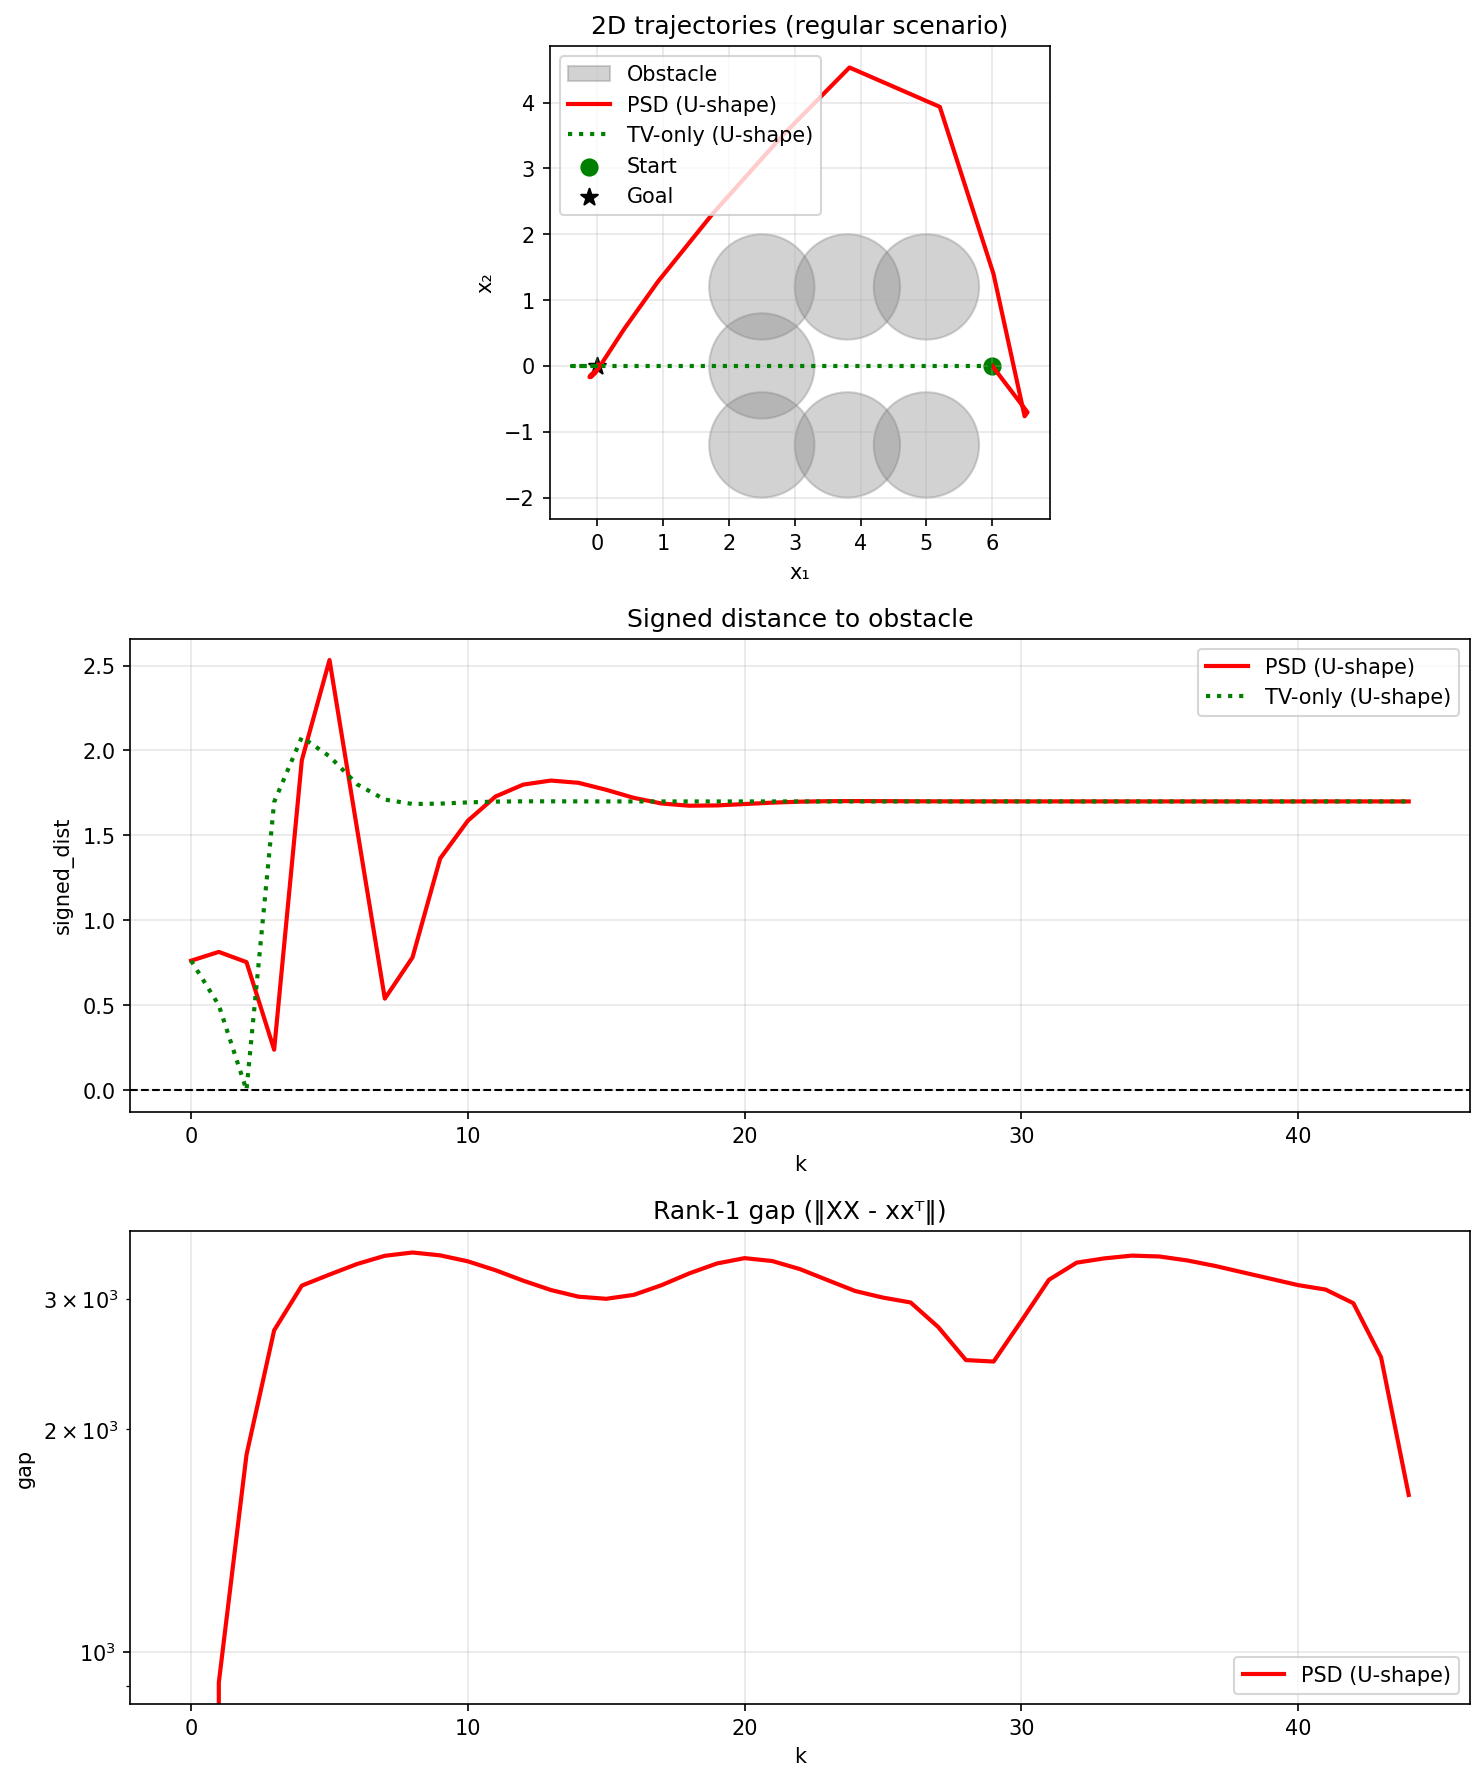
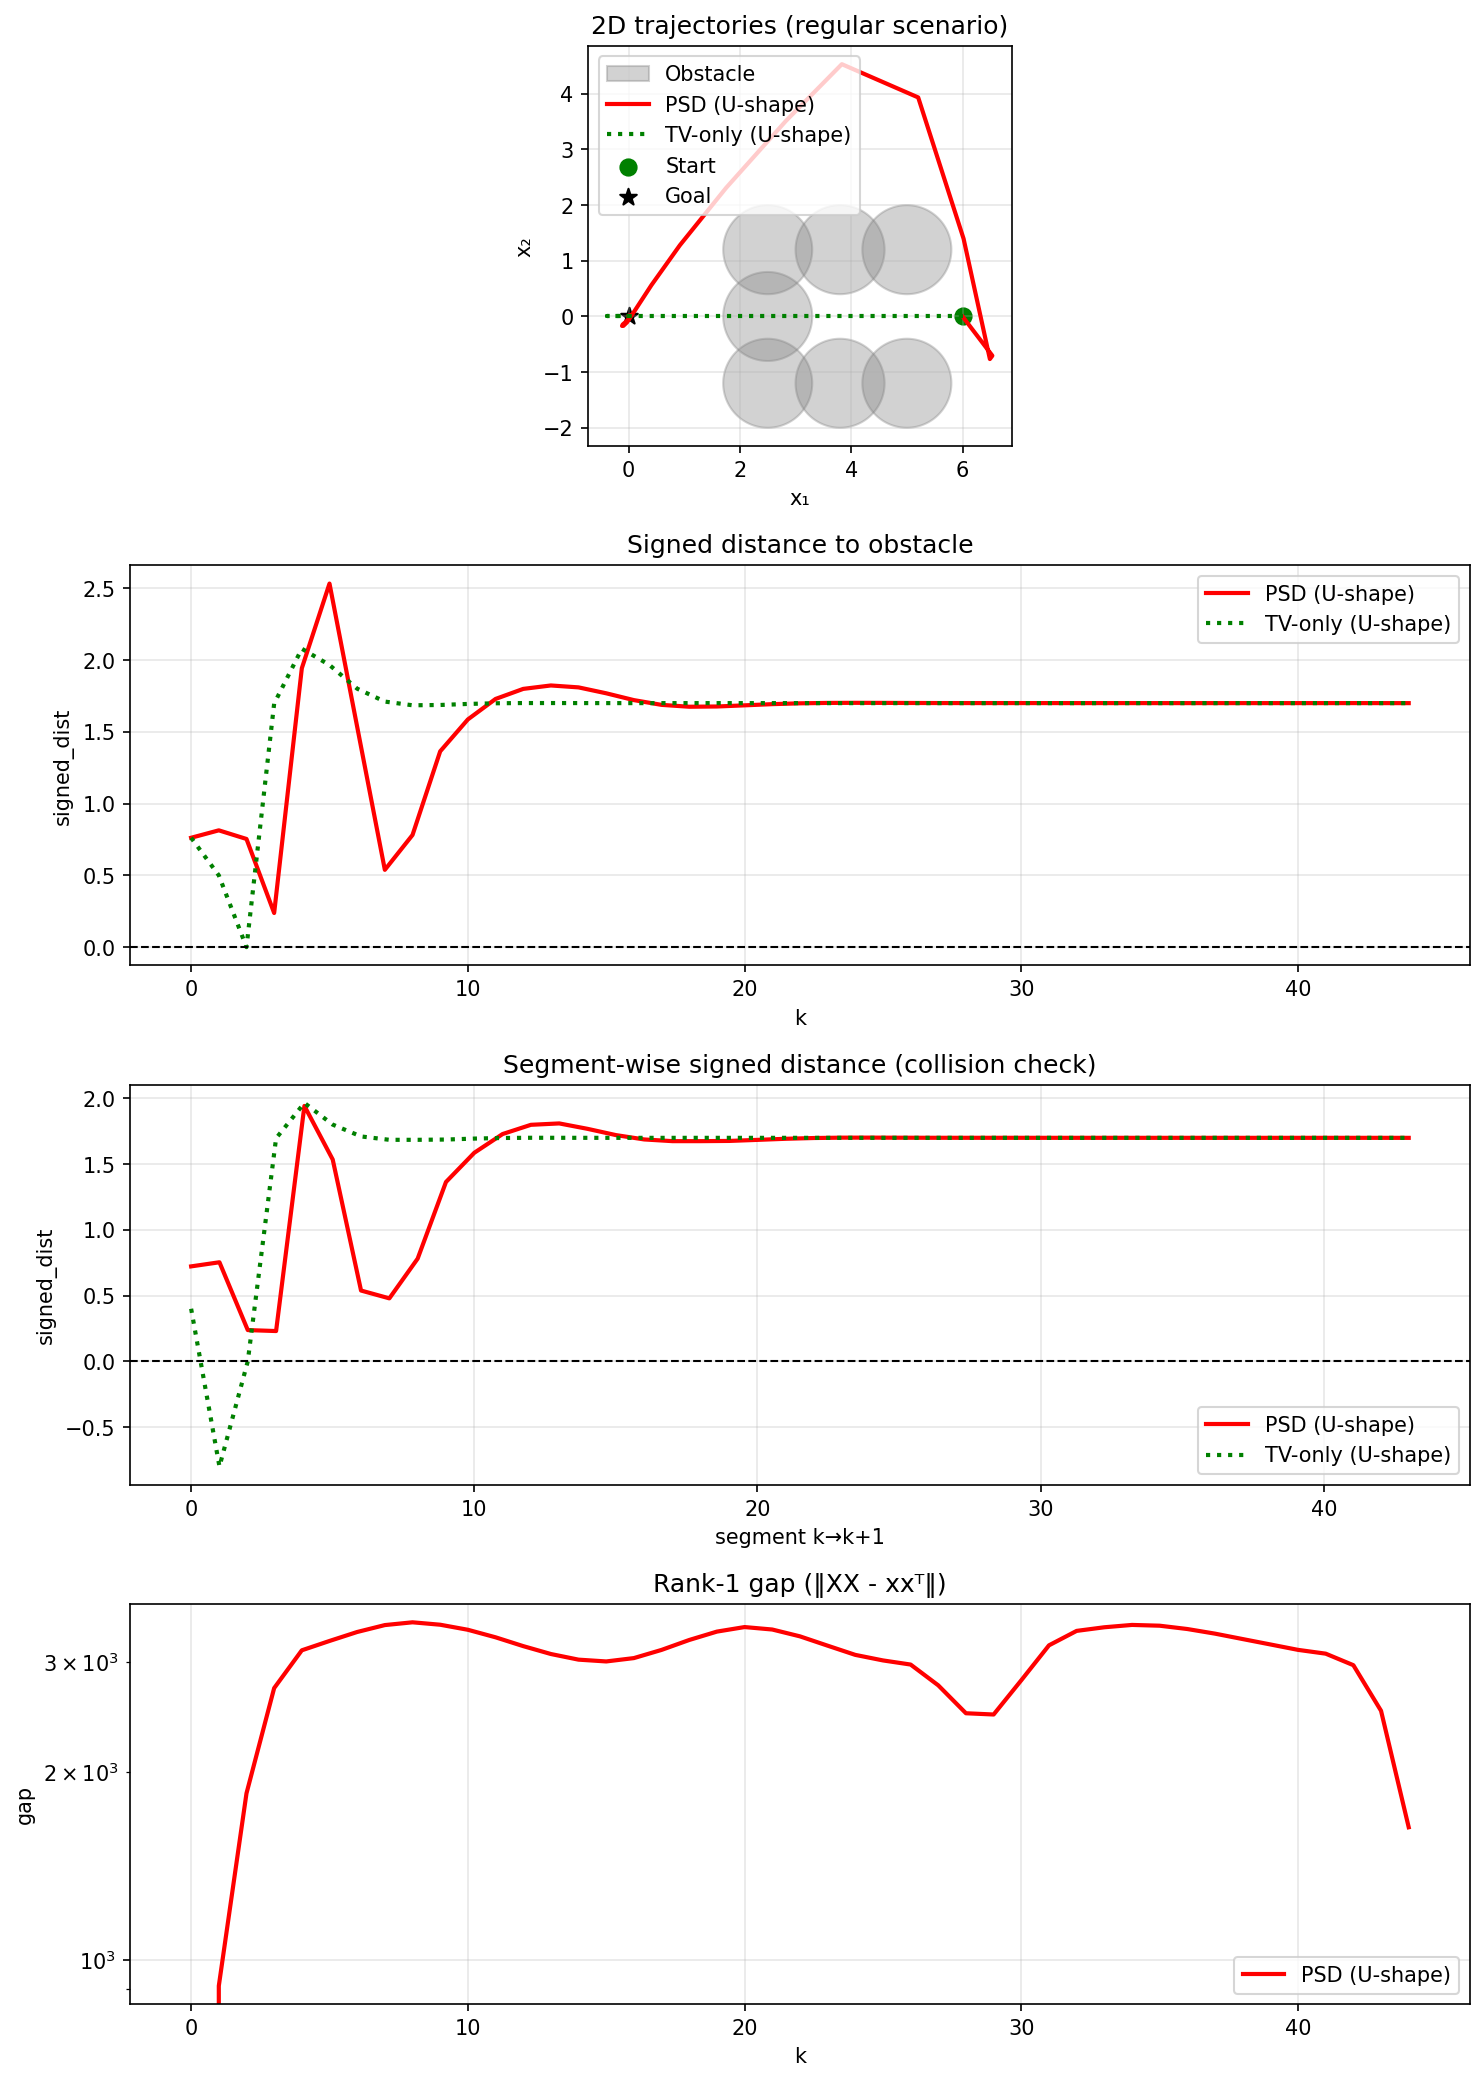
mathcing psd

diff --git a/plot_compare_psd_vs_tv.py b/plot_compare_psd_vs_tv.py
@@ -68,6 +68,42 @@ def signed_distance_series(df, obstacles):
     return np.min(np.vstack(all_sd), axis=0)
 
 
+def seg_signed_dist_to_circle(p0, p1, c, r):
+    v = p1 - p0
+    vv = np.dot(v, v)
+    if vv == 0.0:
+        return np.linalg.norm(p0 - c) - r
+    t = np.clip(np.dot(c - p0, v) / vv, 0.0, 1.0)
+    closest = p0 + t * v
+    return np.linalg.norm(closest - c) - r
+
+
+def segmentwise_signed_distance_series(df, obstacles):
+    if df is None:
+        return None
+    if 'x1' in df and 'x2' in df:
+        x = df['x1'].to_numpy()
+        y = df['x2'].to_numpy()
+    elif 'x_dyn' in df and 'y_dyn' in df:
+        x = df['x_dyn'].to_numpy()
+        y = df['y_dyn'].to_numpy()
+    else:
+        return None
+    if len(x) < 2:
+        return None
+    sds = []
+    for k in range(len(x) - 1):
+        p0 = np.array([x[k],   y[k]])
+        p1 = np.array([x[k+1], y[k+1]])
+        best = np.inf
+        for (cx, cy, rr) in obstacles:
+            d = seg_signed_dist_to_circle(p0, p1, np.array([cx, cy]), rr)
+            if d < best:
+                best = d
+        sds.append(best)
+    return np.array(sds)
+
+
 def plot_narrow2d_overlay(args):
     runs = [
         ("PSD+TV (pipeline)", args.narrow_pipeline_csv, 'red', '-'),
@@ -152,7 +188,9 @@ def plot_narrow2d_overlay(args):
 
 
 def plot_regular_overlay(args):
-    if getattr(args, "use_ushape_obstacles", False):
+    use_ushape = getattr(args, "use_ushape_obstacles", False)
+    include_segment = use_ushape
+    if use_ushape:
         runs = [
             ("PSD (U-shape)", args.pipeline_csv, 'red', '-'),
             ("TV-only (U-shape)", args.tv_csv, 'green', ':'),
@@ -175,7 +213,7 @@ def plot_regular_overlay(args):
         print("No CSVs available for plotting.")
         return 1
 
-    if getattr(args, "use_ushape_obstacles", False):
+    if use_ushape:
         r_wall = 0.8
         obstacles = [
             (2.5,  0.0, r_wall),
@@ -193,7 +231,8 @@ def plot_regular_overlay(args):
         start = np.array([args.x0x, args.x0y])
         goal = np.array([args.gx, args.gy])
 
-    fig, axes = plt.subplots(3, 1, figsize=(10, 12))
+    fig_rows = 4 if include_segment else 3
+    fig, axes = plt.subplots(fig_rows, 1, figsize=(10, 12 if not include_segment else 14))
 
     ax = axes[0]
     ax.set_aspect('equal')
@@ -229,7 +268,24 @@ def plot_regular_overlay(args):
     ax.grid(True, alpha=0.3)
     ax.legend()
 
-    ax = axes[2]
+    seg_ax = axes[2] if include_segment else None
+    rank_ax = axes[3] if include_segment else axes[2]
+
+    if include_segment:
+        for label, df, color, style in data:
+            seg_sd = segmentwise_signed_distance_series(df, obstacles)
+            if seg_sd is None:
+                continue
+            seg_k = np.arange(len(seg_sd))
+            seg_ax.plot(seg_k, seg_sd, color=color, linestyle=style, linewidth=2, label=label)
+        seg_ax.axhline(0.0, color='black', linestyle='--', linewidth=1)
+        seg_ax.set_title('Segment-wise signed distance (collision check)')
+        seg_ax.set_xlabel('segment k→k+1')
+        seg_ax.set_ylabel('signed_dist')
+        seg_ax.grid(True, alpha=0.3)
+        seg_ax.legend()
+
+    ax = rank_ax
     for label, df, color, style in data:
         if {'k', 'rank1_gap'} <= set(df.columns):
             ax.plot(df['k'], df['rank1_gap'], color=color, linestyle=style, linewidth=2, label=label)
@@ -250,6 +306,9 @@ def plot_regular_overlay(args):
             print(f"{label}: min signed_dist = {sd.min():.4f}")
         if 'rank1_gap' in df.columns:
             print(f"{label}: max rank1_gap = {df['rank1_gap'].max():.4f}")
+        seg_sd = segmentwise_signed_distance_series(df, obstacles) if include_segment else None
+        if seg_sd is not None:
+            print(f"{label}: min segment signed_dist = {seg_sd.min():.4f}")
 
     return 0
 

diff --git a/examples/tiny_tv_ushape_demo.cpp b/examples/tiny_tv_ushape_demo.cpp
@@ -59,11 +59,15 @@ extern "C" int main() {
     Mat x_max = Mat::Constant(nxL, N,  std::numeric_limits<tinytype>::infinity());
     x_min.topRows(NX0).setConstant(-30.0);
     x_max.topRows(NX0).setConstant( 30.0);
+    x_min.middleRows(NX0, NX0*NX0).setConstant(-1500.0);
+    x_max.middleRows(NX0, NX0*NX0).setConstant( 1500.0);
 
     Mat u_min = Mat::Constant(nuL, N-1, -std::numeric_limits<tinytype>::infinity());
     Mat u_max = Mat::Constant(nuL, N-1,  std::numeric_limits<tinytype>::infinity());
     u_min.topRows(NU0).setConstant(-3.0);
     u_max.topRows(NU0).setConstant( 3.0);
+    u_min.bottomRows(nxu + nux + nuu).setConstant(-120.0);
+    u_max.bottomRows(nxu + nux + nuu).setConstant( 120.0);
     tiny_set_bound_constraints(solver, x_min, x_max, u_min, u_max);
 
     Vec x0(NX0);
@@ -78,8 +82,8 @@ extern "C" int main() {
 
     Mat Xref = Mat::Zero(nxL, N);
     Mat Uref = Mat::Zero(nuL, N-1);
-    const tinytype q_xx = tinytype(0.5);
-    const tinytype r_uu = tinytype(5.0);
+    const tinytype q_xx = tinytype(1.0);
+    const tinytype r_uu = tinytype(10.0);
     for (int k = 0; k < N; ++k) {
         for (int i = 0; i < NX0; ++i) {
             int idx = NX0 + i*NX0 + i;
